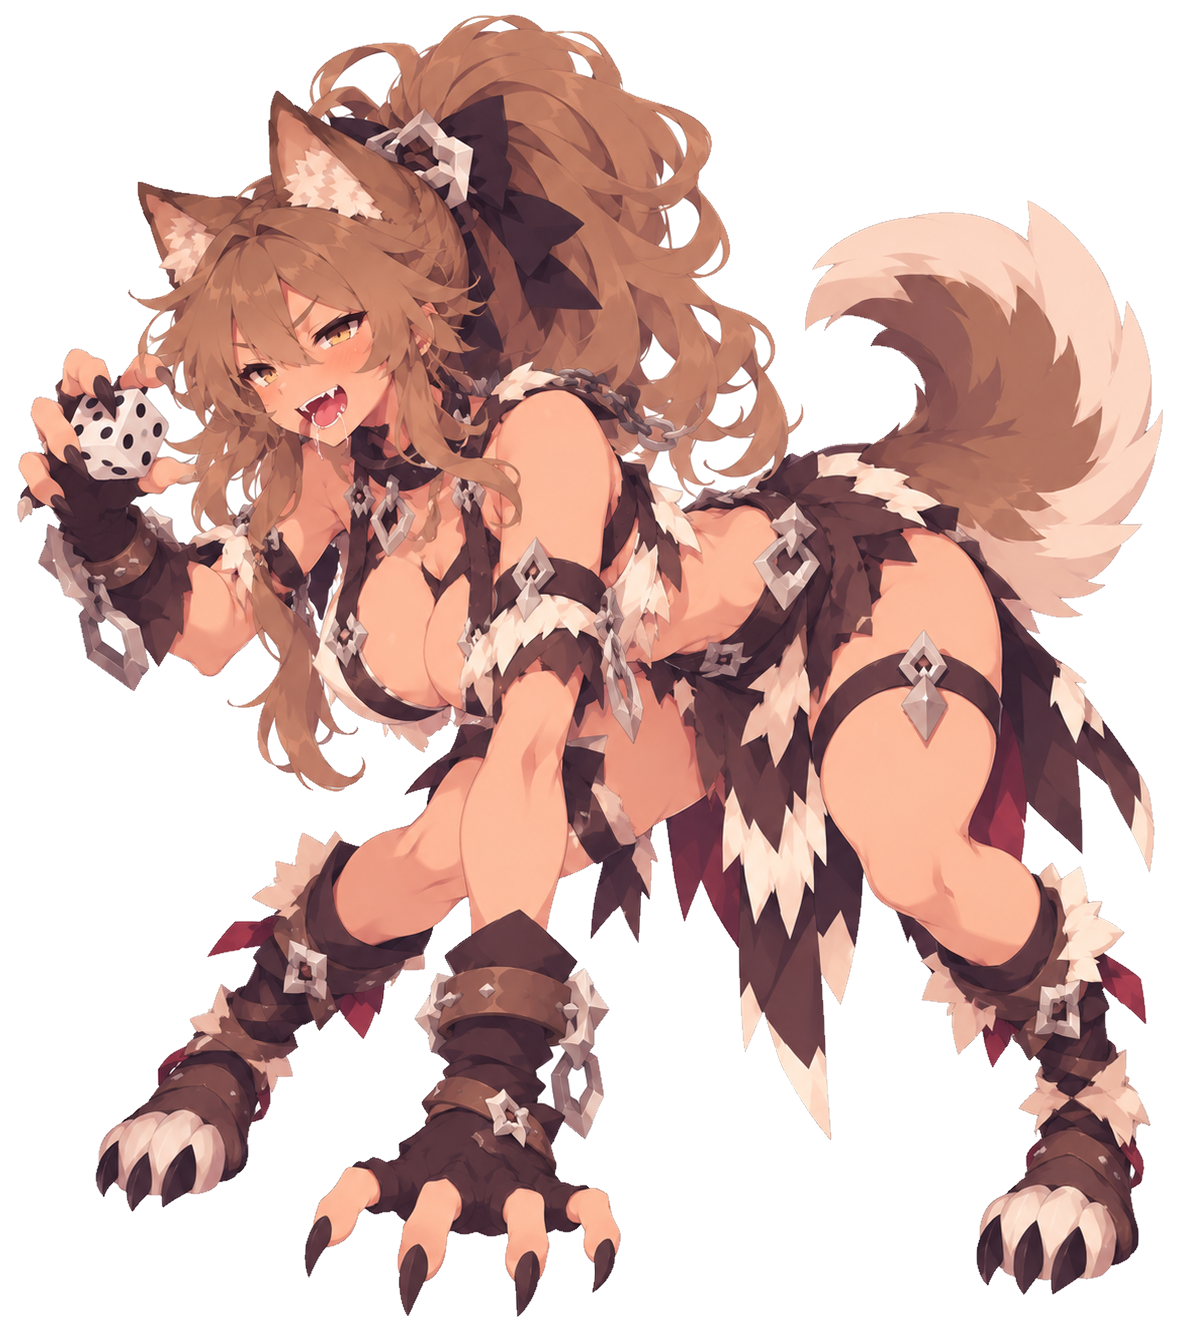
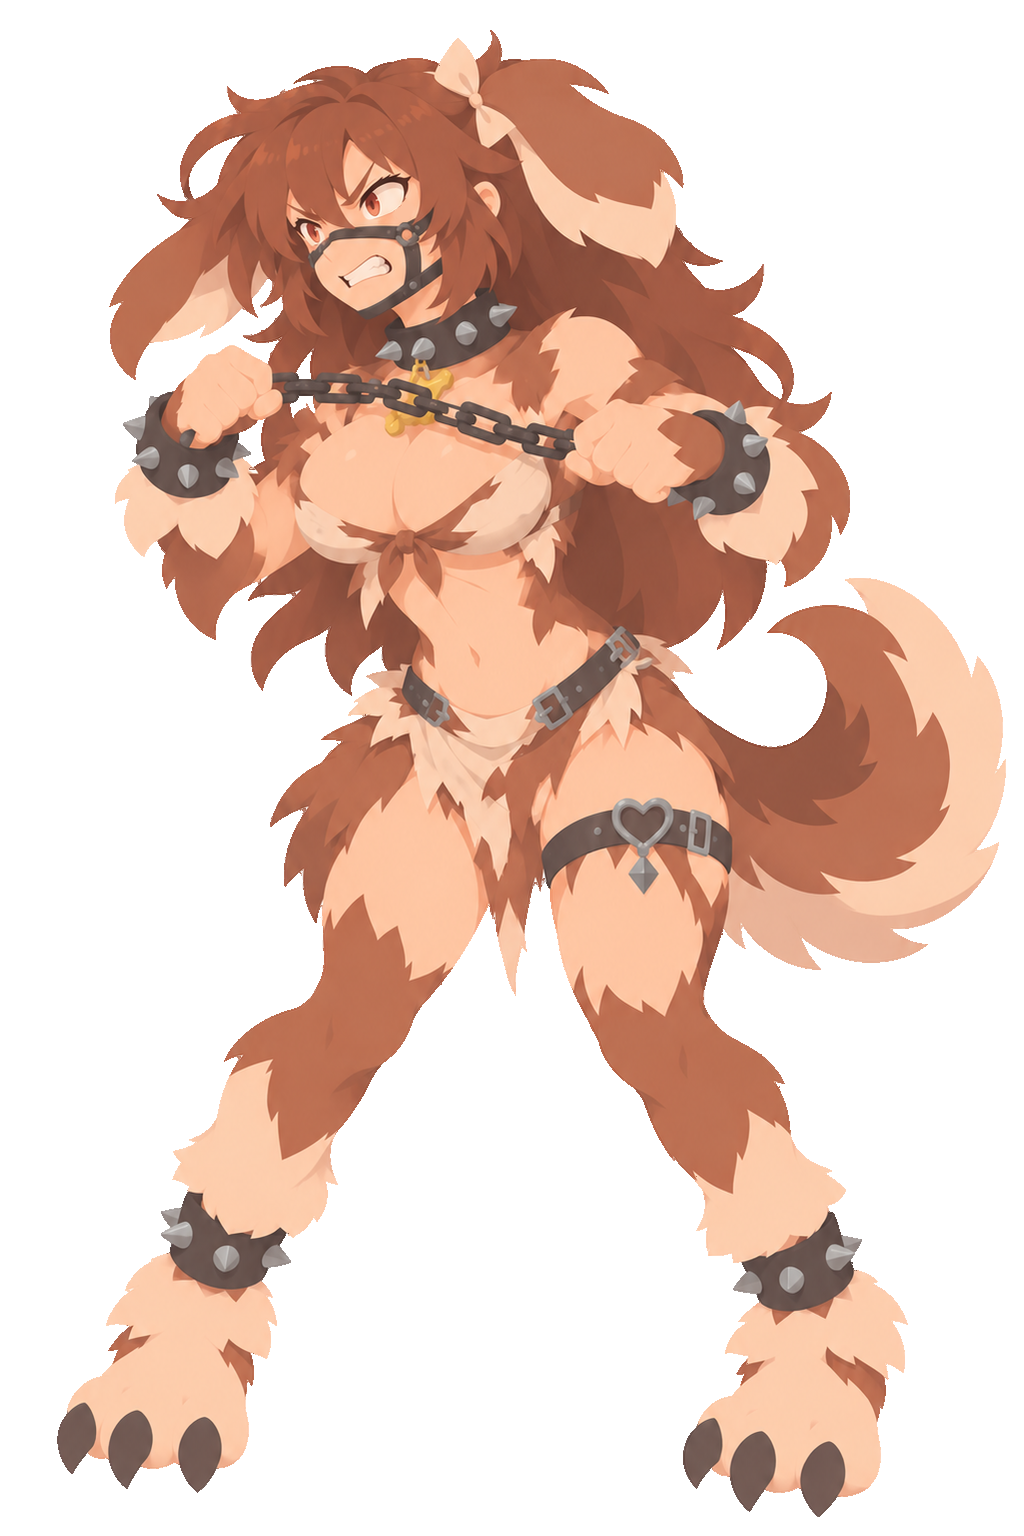
art: 광견 모험가판 적용 (cs4_mad_dog_3, 노출↑·홍조/바보털 제거, AD 구멍 검사 PASS)

diff --git a/docs/art/ART_QUEUE.md b/docs/art/ART_QUEUE.md
@@ -20,7 +20,7 @@
 | 1 | 보스 디자인 | **점액 군주** — 목표 체크리스트 docs/art/OOZE_TIARA_SPEC.md. om7~om24 실패(머리 눌림·씌운 막·링 두툼·기울기 복원·크기 변화) → 티아라 제거본에 직접 기울여 합성 + 깊이별 반투명 → om25(체크리스트 통과) | 컨펌 대기 (om25) |
 | 2 | 화풍 통일 | ✅ (2026-11-12 적용) **확정 몬스터 12종 모험가판** (고블린·방패 고블린·산적·경비병·늑대·안개·그림자·구울·좀비·저주 인형·심연의 불·심연의 아이). 외곽선 제거(r52) → 사용자 확인: 늑대·안개·아이 외 OK → 늑대·안개(보석·리본 짙게)·아이 + 12종 주사위 전수 점검(그림자·고블린·방패 고블린도 수정) → r53 | 완료 |
 | 3 | 화풍 통일 | **캐릭터 표정 35장** — 피드백 체크리스트 docs/art/FACE_FEEDBACK_2026-11-12.md. 완료: 광전사(분노만 6안 중 선택 대기, 가슴 '원본부터 키우기'는 전신 수정 여부 답변 대기), 매혹사(화남 6안 중 선택 대기), 수호자, 폭발병. 진행 중: 주술사(기본·웃음 OK, 화남·슬픔·고통 이펙트 제거 중). 남음: 곡예사(머리 위 표정 장식·기쁨 눈·고통), 해적(전신부터 피부 톤). 추가 요청: 7명 분노 표정 감성 맞추기(방향 답변 대기) | 진행 중 (주술사) |
-| 4 | 수정 중 몬스터 | 각 수정본 → 피드백 확인 → 모험가판 화풍까지 한 번에: ① 아머 고블린(rs14f: rs14d가 이미 모험가판, 귀걸이 주사위만 수정 — AD PASS, 컨펌 대기) ② 오크(cs4_orc_1 모험가 색감 → 2026-11-16 사용자 "너무 누래져서, 이전 처럼 초록 느낌이 나게끔 해줘" → cs4_orc_2: 피부 색조 49°→약 65°, 채도 0.42→0.33~0.35, 확정 고블린과 같은 녹색 계열) ③ 광견(노출↑ + 화풍, 생성 중) ④ 독거미 ⑤ 산양 ⑥ 암흑 늑대(dw2) ⑦ 심연의 사제(손가락) ⑧ 미믹 | 진행 중 (광견) |
+| 4 | 수정 중 몬스터 | 각 수정본 → 피드백 확인 → 모험가판 화풍까지 한 번에: ① 아머 고블린(rs14f: rs14d가 이미 모험가판, 귀걸이 주사위만 수정 — AD PASS, 컨펌 대기) ② 오크(cs4_orc_1 모험가 색감 → 2026-11-16 사용자 "너무 누래져서, 이전 처럼 초록 느낌이 나게끔 해줘" → cs4_orc_2: 피부 색조 49°→약 65°, 채도 0.42→0.33~0.35, 확정 고블린과 같은 녹색 계열) ③ ✅ 광견(cs4_mad_dog_3 — 노출↑·모험가판, 사용자 "광견 ok." → 2026-11-17 적용) ④ 독거미 ⑤ 산양 ⑥ 암흑 늑대(dw2) ⑦ 심연의 사제(손가락) ⑧ 미믹 | 진행 중 (광견) |
 | 5 | 보스 마무리 | ① 공허의 눈(b25 / 단순화 vs1 선택) ② 영계의 지배자(발) ③ 광란의 마수 → 각 모험가판 → 보스 6종 일괄 나열 컨펌 | 대기 |
 | 6 | 미컨펌 디자인 | **디자인부터 다시** — 하나씩 시안 → 컨펌 → 다음: ① 슬라임 ② 독 슬라임 ③ 유령(2026-11-11 사용자: 컨펌한 적 없음) ④ 고블린 족장 ⑤ 젤라틴 큐브 ⑥ 망령 ⑦ 오크 투사 ⑧ 리치 견습생 ⑨ 다크 나이트(정예, 일반판과 공유) | 대기 |
 | 7 | 후속 | 몬스터 표정 세트 → 같은 종족 피부 톤 맞추기 → 스킬 아이콘 61종 → 이벤트 일러스트 16종 | 대기 |
